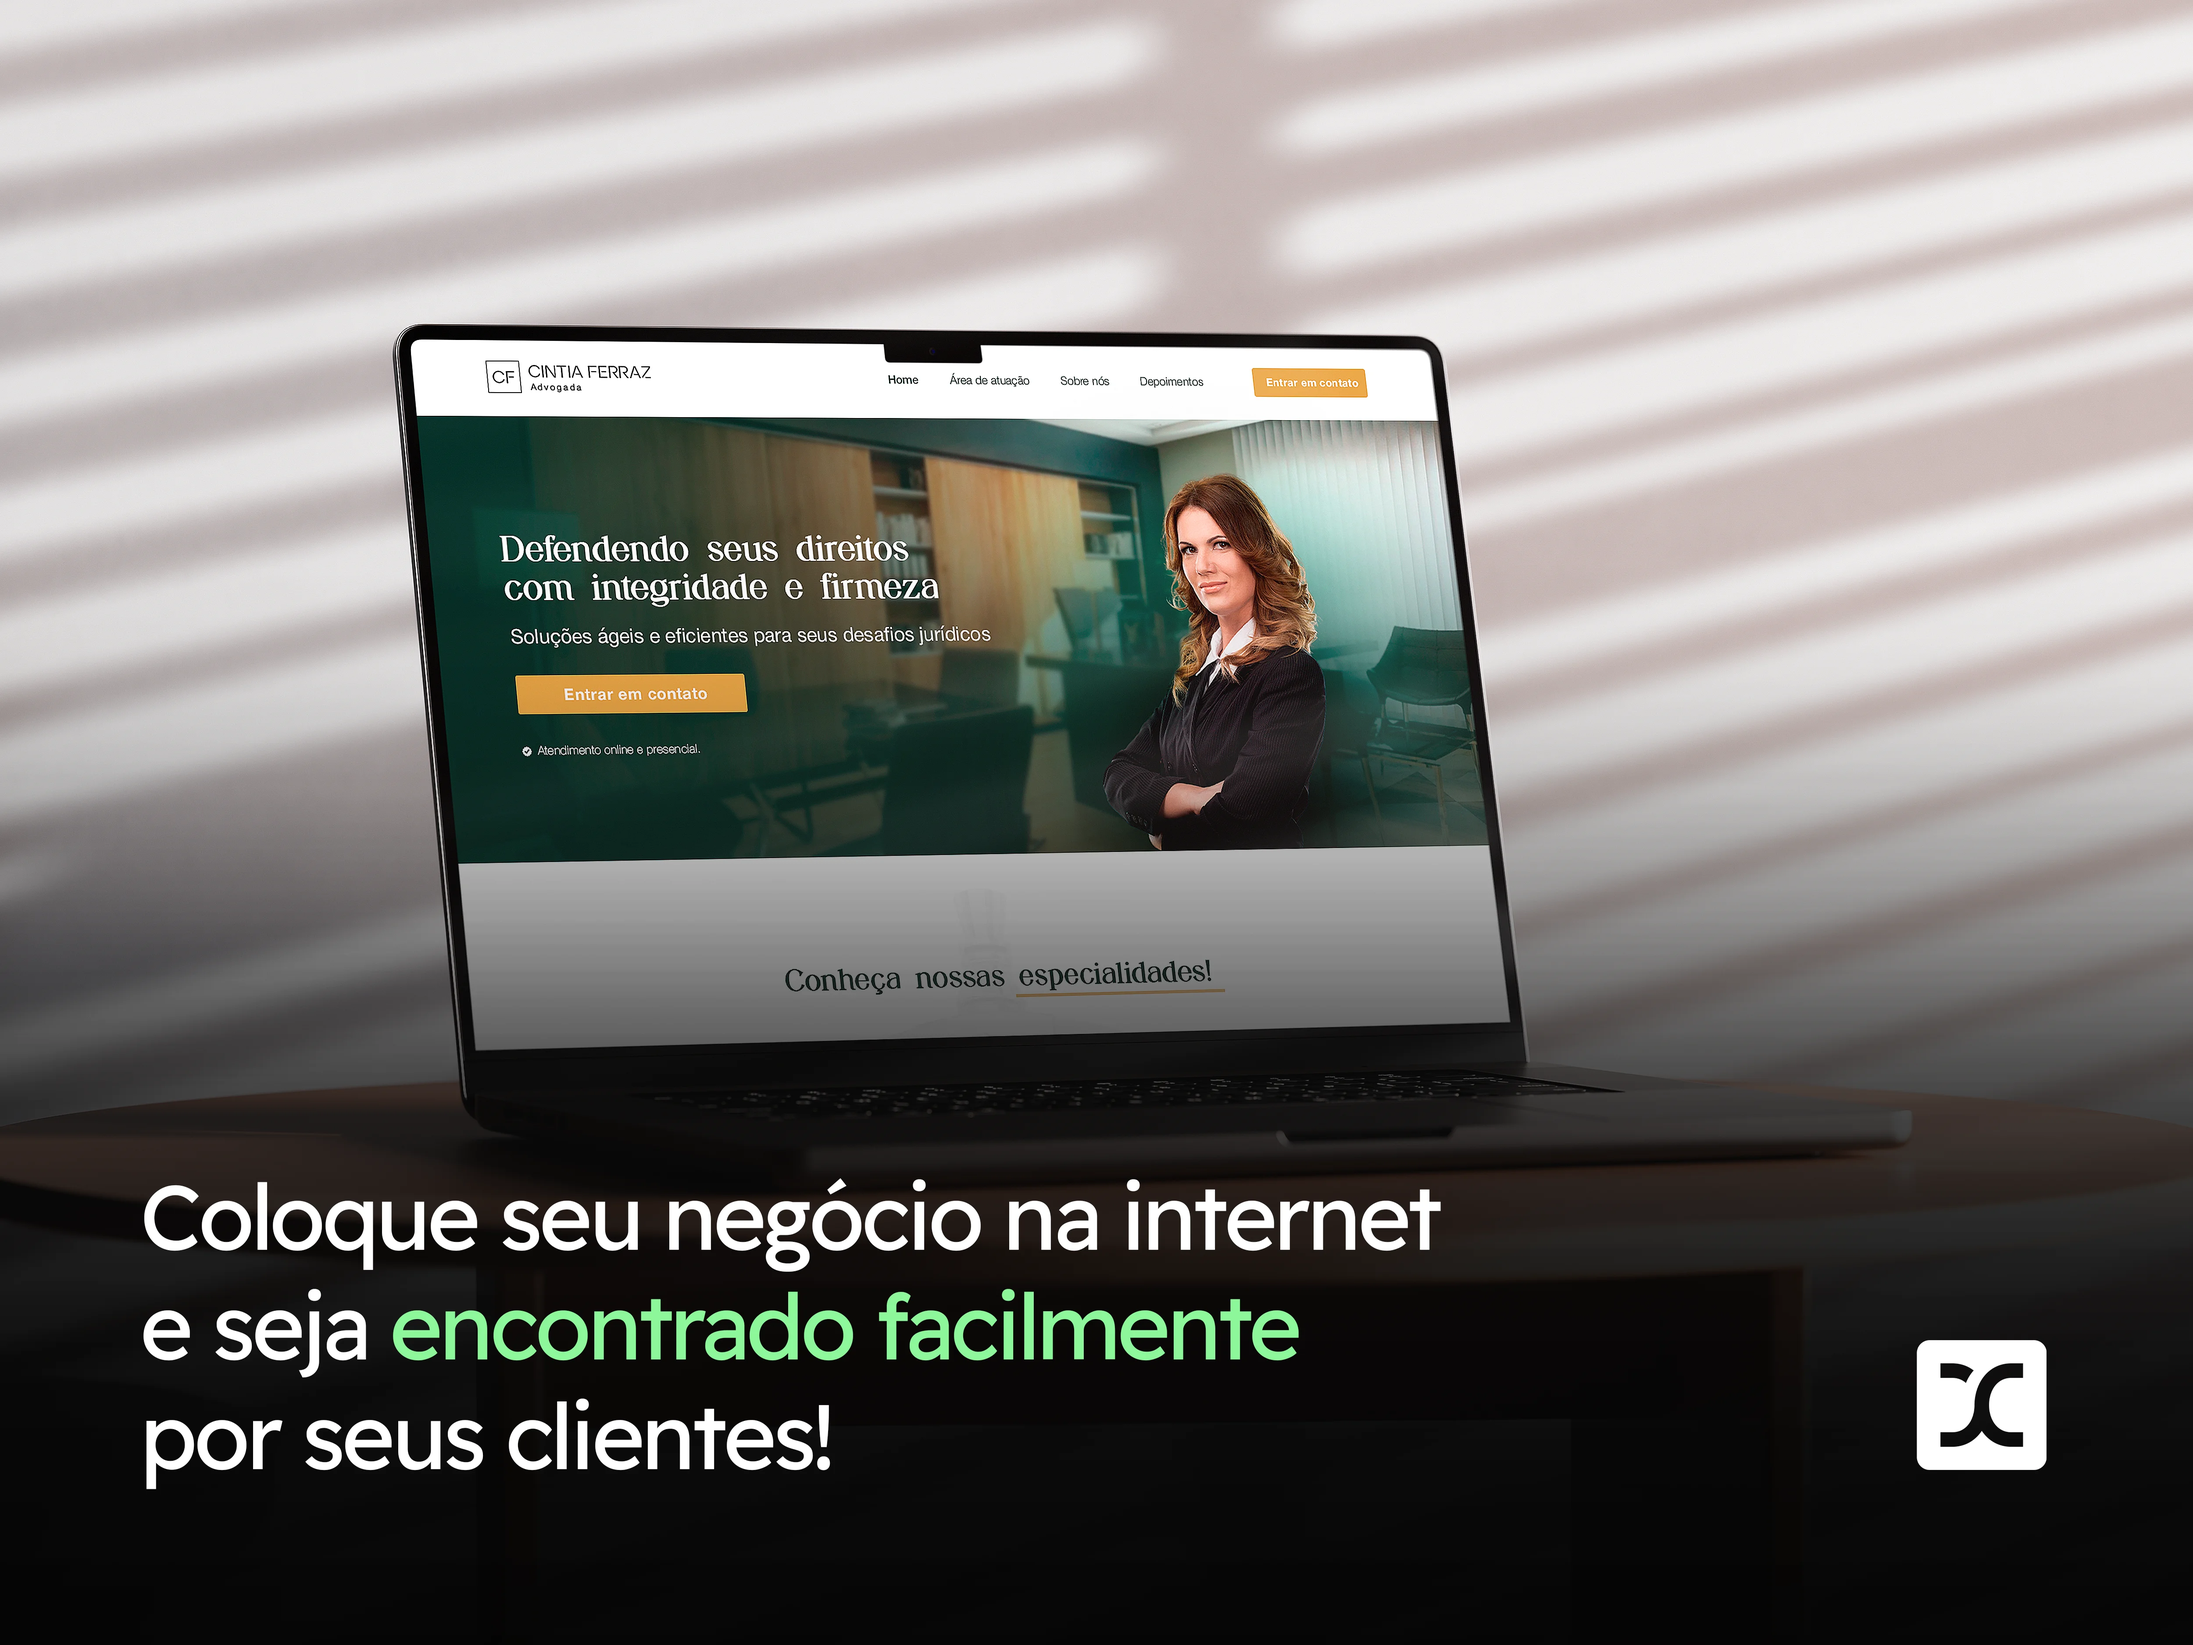
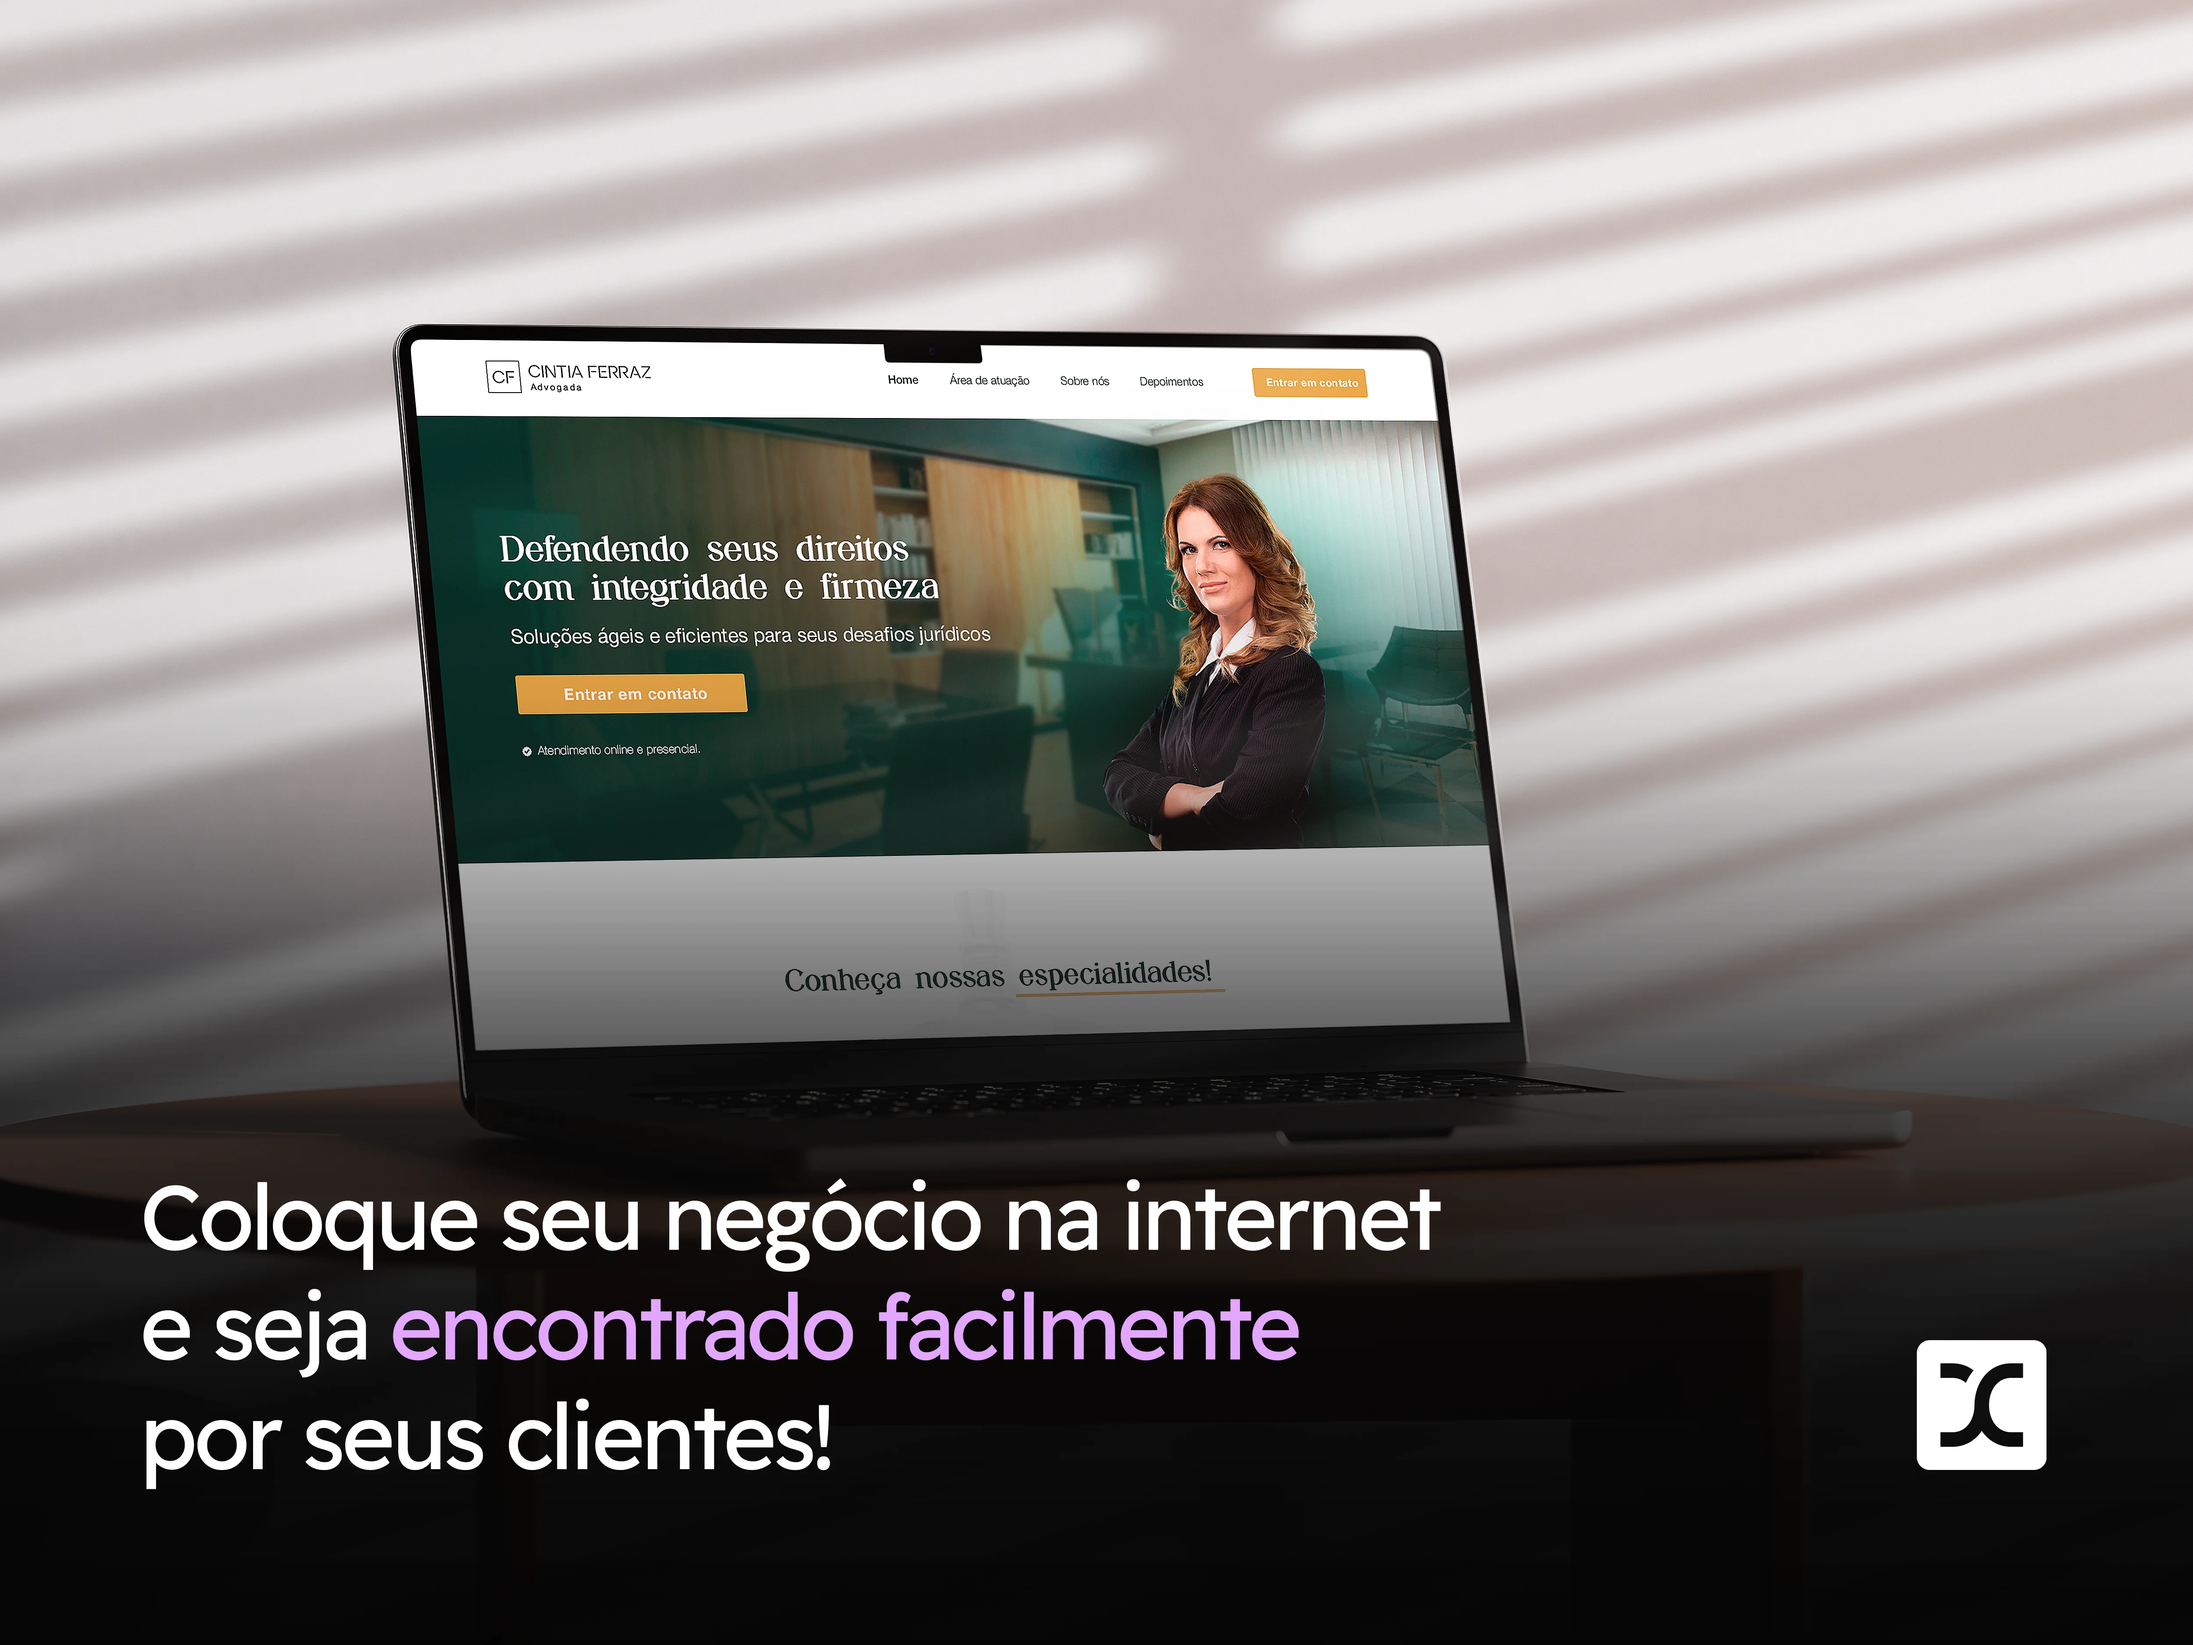
updgrade image

Changed region(s): [[0.1872, 0.78, 0.5928, 0.8424]]

diff --git a/assets/style.css b/assets/style.css
@@ -125,7 +125,7 @@ a.link button {
 
 a.link button:hover {
     transition: ease-in 0.1ms;
-    background-color: #8df79b;
+    background-color: #e1a6ff;
     color: #111111;
 }
 
